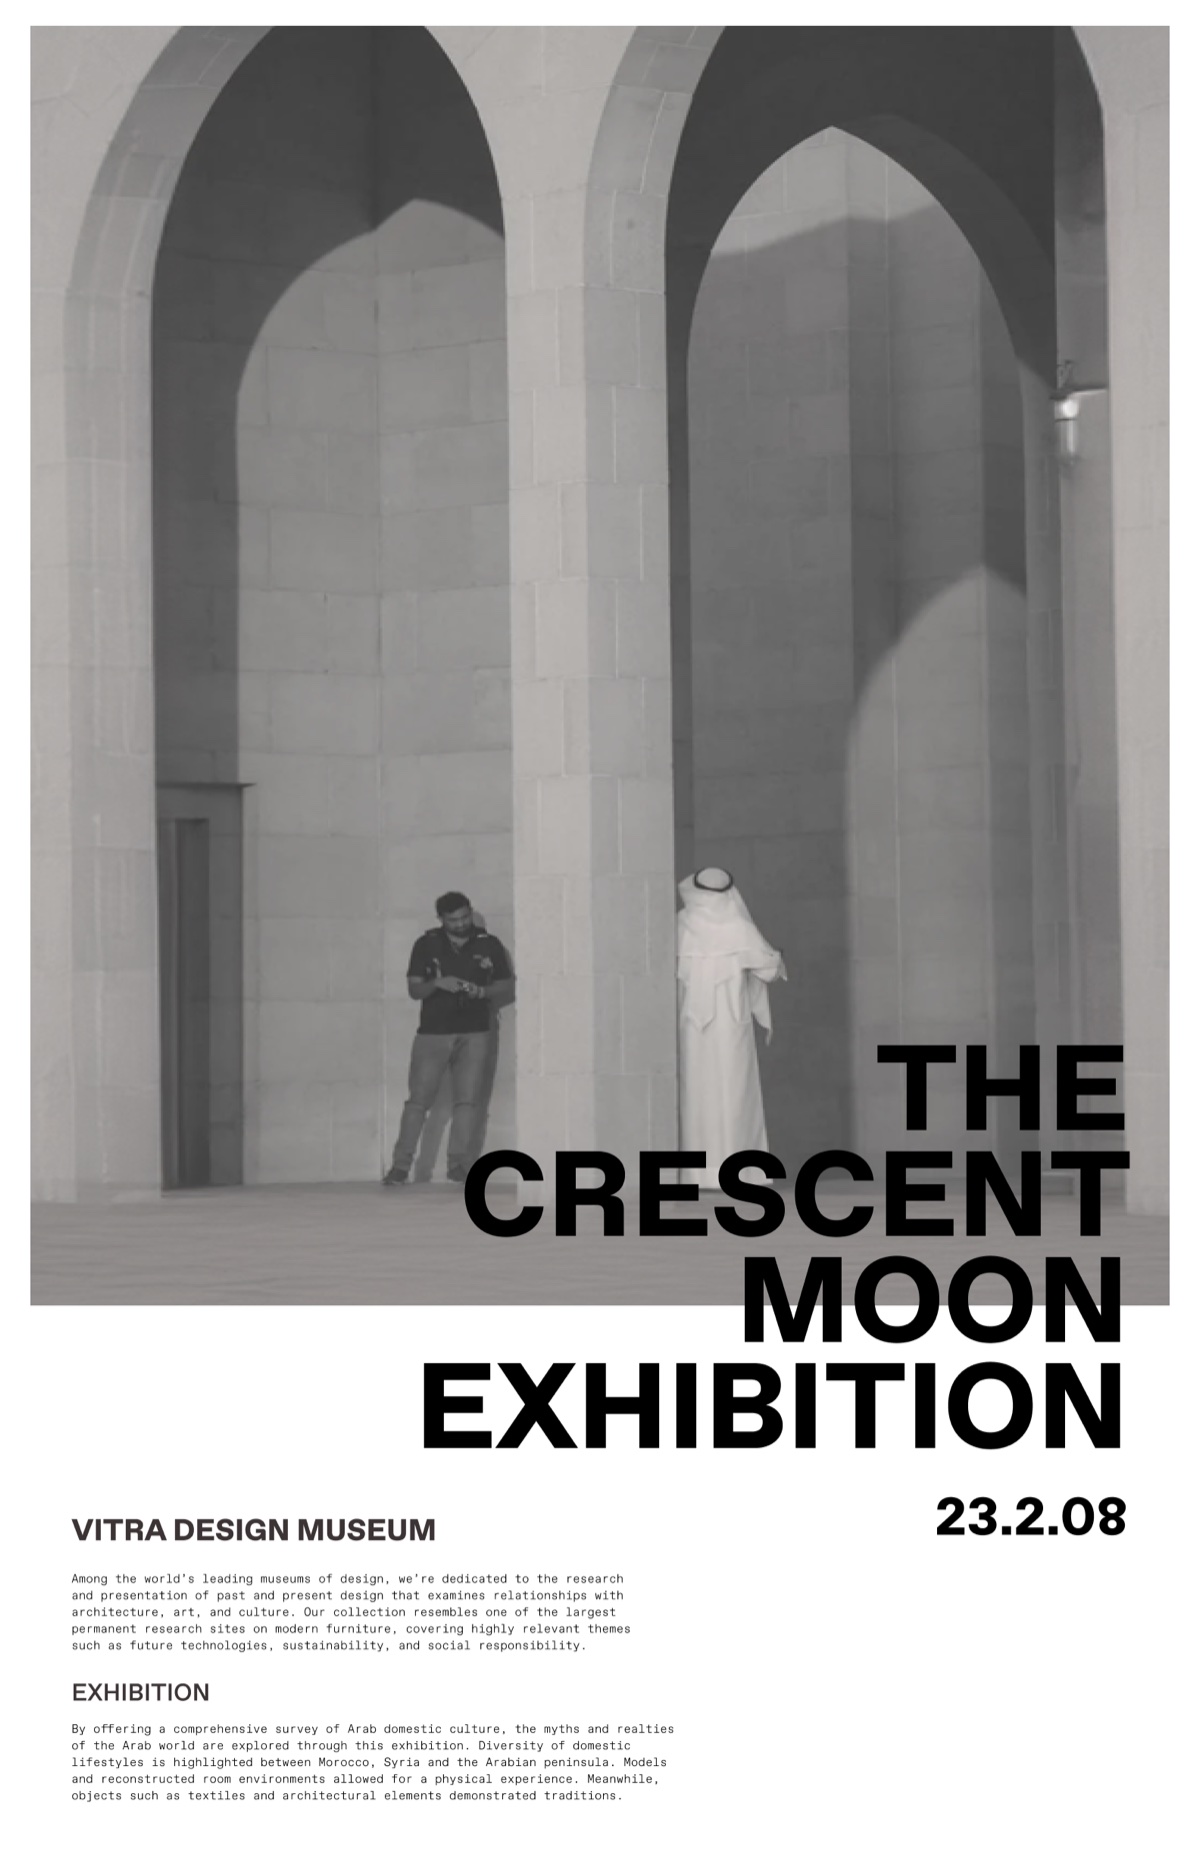
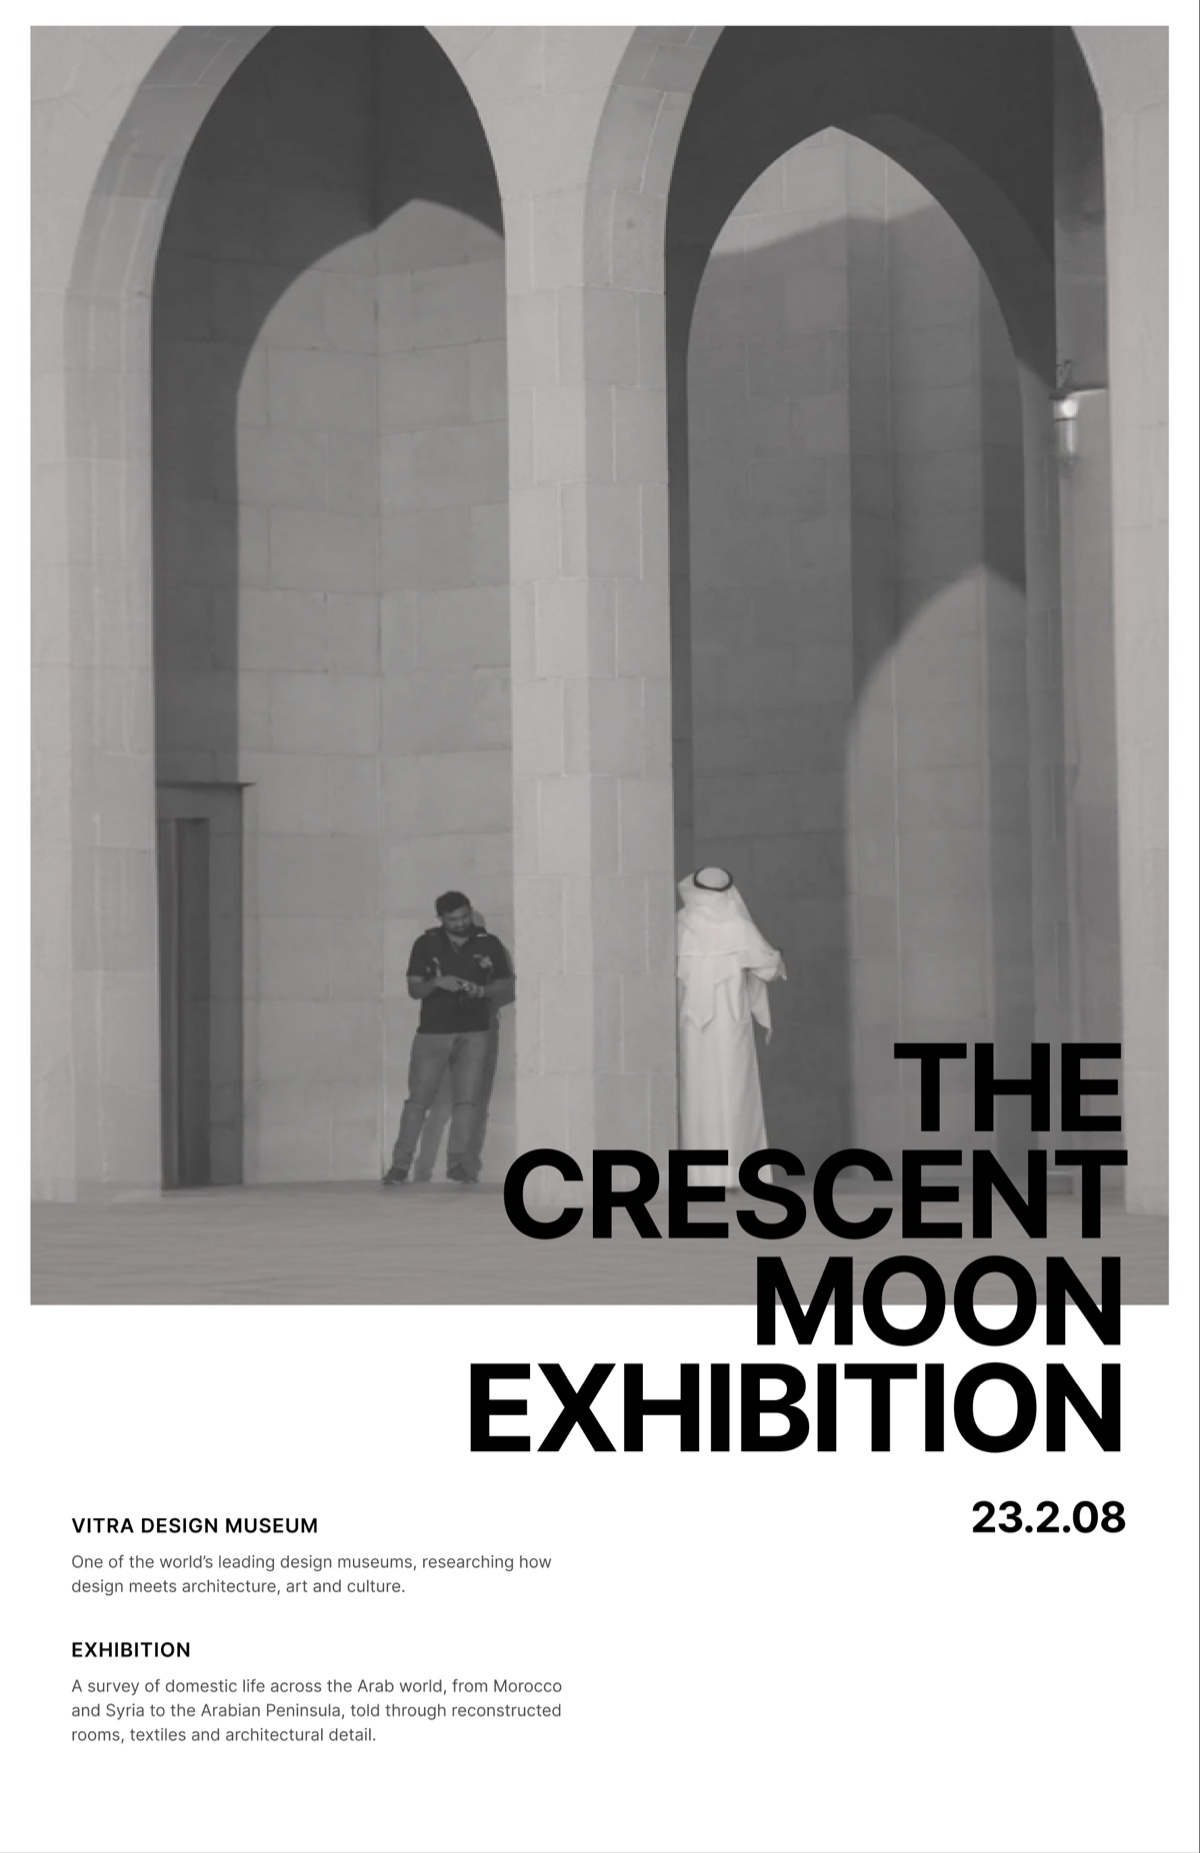
Domino's before screens, type-only Crescent Moon poster
- Domino's page shows the old app (sign in, cart, rewards) under the
  App Store quotes
- Crescent Moon poster and the Posters card use the type-only revision:
  one typeface, clearer hierarchy, shorter copy, same layout and title

Changed region(s): [[0.0617, 0.5537, 0.9558, 0.9843]]

diff --git a/posters.html b/posters.html
@@ -55,7 +55,7 @@
     <section class="shell section--roomy side" id="posters">
       <div class="side-grid side-grid--3">
       <figure class="side-fig side-fig--poster reveal" data-delay="1">
-        <img src="assets/side/posters/vitra.jpg" width="1200" height="1854" loading="lazy" decoding="async" data-zoom data-cursor-label="Enlarge" alt="Poster for The Crescent Moon Exhibition at the Vitra Design Museum: a black and white photo of arches with heavy black type.">
+        <img src="assets/side/posters/vitra.jpg?v=2" width="1200" height="1853" loading="lazy" decoding="async" data-zoom data-cursor-label="Enlarge" alt="Poster for The Crescent Moon Exhibition at the Vitra Design Museum: a black and white photo of arches with heavy black type.">
         <figcaption class="cs-image__caption">The Crescent Moon Exhibition, Vitra Design Museum</figcaption>
       </figure>
       <figure class="side-fig side-fig--poster reveal" data-delay="1">

diff --git a/dominos.html b/dominos.html
@@ -88,6 +88,10 @@
           <cite>App Store review</cite>
         </blockquote>
       </div>
+      <figure class="side-fig reveal" data-delay="1">
+        <img src="assets/side/dominos/before.jpg?v=1" width="1800" height="984" loading="lazy" decoding="async" data-zoom data-cursor-label="Enlarge" alt="Three screens from the current Domino&rsquo;s app: the Pizza Profile sign-in, a cart with checkout, and Piece of the Pie Rewards.">
+        <figcaption class="cs-image__caption">The app before: sign in, cart and rewards</figcaption>
+      </figure>
     </section>
     <section class="shell section--roomy side" id="changes">
       <div class="sec-head reveal"><div><h2>What changed</h2></div></div>

diff --git a/side-projects.html b/side-projects.html
@@ -137,7 +137,7 @@
         <li class="proj">
           <a href="posters.html" class="proj__link">
             <div class="proj__img side-card__img side-card__img--photo">
-              <img src="assets/side/thumbs/posters.jpg?v=4" alt="" width="1200" height="900" loading="lazy" decoding="async">
+              <img src="assets/side/thumbs/posters.jpg?v=5" alt="" width="1200" height="900" loading="lazy" decoding="async">
             </div>
             <span class="side-pill">Graphic design</span>
             <h3 class="proj__title">Posters</h3>

diff --git a/CLAUDE.md b/CLAUDE.md
@@ -123,6 +123,10 @@ Jay is a product/interaction designer, not primarily an engineer. Explain techni
 
 **Side project ad videos (17 Nov 2026).** Jay asked for advert-style walkthroughs of the app side projects; only **Jackalope's is on the site** (Jay: "just use jackalope video"), as the lead of `jackalope.html`, with the three-screen hero still kept right under it (Jay: don't take the screen picture away) (`video.side-video`, controls, `preload="none"`, poster `assets/side/jackalope/ad-poster.jpg`, file `assets/side/jackalope/ad.mp4`, 1080p, 42s, about 11 MB; before: `.verbose-backup/before-jackalope-video/`). All are built in Figma Motion (keyframe tracks set through the Plugin API), music only, cut on the beat: Domino's (Portfolio page "Side project ads (motion)", frame "Domino's ad", to Masayoshi Takanaka "Brasilian Skies", 120.9 bpm) opens with three screens of the old app from the case study frame beside real App Store reviews, then the redesign; Jackalope ("Jackalope ad", to Young-Holt Unlimited "Soulful Strut", 89.55 bpm) shows interests, saving, the Ask Jackalope AI sheet and the group chat; Daylog (CREATIVE SPACE, page "Daylog ad (motion)", to Steve Lacy "oh yeah", 95.95 bpm). Highlights use a "Camera" frame around the phone that zooms and pans (scale pivots on its centre), not pieces lifted out of the screen (Jay found lifted dark pieces blended into the backdrop and the lifts repetitive). Never let two keyframes of one track share a time: Figma keeps the later one, so a "hold" there freezes the move before it. Every tap rests at least 0.6s after the last move. The **Ask Jackalope (AI)** screen is a real design in the redesigned Jackalope section (Portfolio 673:143), based on the original prototype's AI suggestions, thumbs up/down and "ask a person" fallback; its answer copy was written for the prototype. The music is commercial (from Jay's own downloads), so the Jackalope video on jayho.fyi carries some takedown risk; Jay chose to use it. Export: `export_video` at SCALE 2 (3840x2160, silent), then ffmpeg adds the track from its first beat with a 2.2s fade and loudnorm I=-16.
 
+**Domino's "before" screens (17 Nov 2026, Jay):** `dominos.html` shows the current app under the review quotes in "What reviewers said": `assets/side/dominos/before.jpg` (1800x984), three real screenshots (Pizza Profile sign-in, cart, Piece of the Pie Rewards) from the Portfolio Figma case study frame 669:481 (nodes 669:624, 669:495, 669:744), composed in headless Chrome to match the flow images (#0B3D5C, 370px squircle phones, 26px white labels). Sign-in and rewards were cropped without a status bar, so a 44px #006490 strip tops them. Before: `.verbose-backup/dominos-before-old-screens.html`.
+
+**Crescent Moon poster, type-only revision (17 Nov 2026, Jay):** `assets/side/posters/vitra.jpg?v=2` (1200x1853) and the Posters card `thumbs/posters.jpg?v=5` now use Portfolio Figma node 713:11 ("Crescent Moon · type only", in Section 1 709:10141 on the "domino — 2026 redesign" page, beside the original and a fuller redesign). Same photo, layout and title words as the IAT 235 original; only type and copy changed: Inter throughout (Favorit is not in the Portfolio file), title Bold 80 at 88% leading and -3% tracking, one 13px label tier, 11px body at 150%, both paragraphs cut to one sentence, date 28 Bold on the museum label's baseline. Before: `.verbose-backup/before-crescent-type/`.
+
 **Side project info as rows (17 Nov 2026, Jay: "feels cluttered"):** on the project pages, `.spec` groups are no longer two- or three-up grids of small headings and 15px paragraphs: inside `.side` they stack as editorial rows (heading left 4/12, text right 7/12 at body size, 32px apart, max 1000px wide; stacked at 720px), and `.side-quote` lost its left rule and reads as an H3-size pull quote. Digital Macro Switch's spec sheet with chips (Jay's pick) is excluded via `:not(:has(.spec__chips))` and keeps its grid. CSS block "Side project info as rows" at the end of `styles.css`. Before: `.verbose-backup/styles-before-side-rows.css`.
 
 **Copy email confirmation** (16 Nov 2026, Jay found the cursor's "Copy" to "Copied" swap too subtle): clicking the Contact page email now (1) shows a dark rounded notice at the bottom centre, a sky-blue circle whose check draws itself plus "Email copied", rising 16px over 400ms and fading after 2.2s (`.toast`, made once by main.js, `role="status"` so screen readers announce it); (2) gives the email a soft 0.97 press; (3) keeps the email in the accent colour with its underline drawn while copied (2.2s, was 1.4s); Then (same day, Jay) the "Copy" cursor label and the "Click to copy" hint were replaced by a copy icon (`.copy-email__icon`) just right of the email: it fades in on hover or keyboard focus, turns into a check while copied, and always shows on touch screens; the cursor shows its normal ring there. The email's size cap went from 11em to 11.7em of the column to leave room for the icon. Reduced motion: the notice and icon only fade. Before: `.verbose-backup/before-copy-toast/`.
